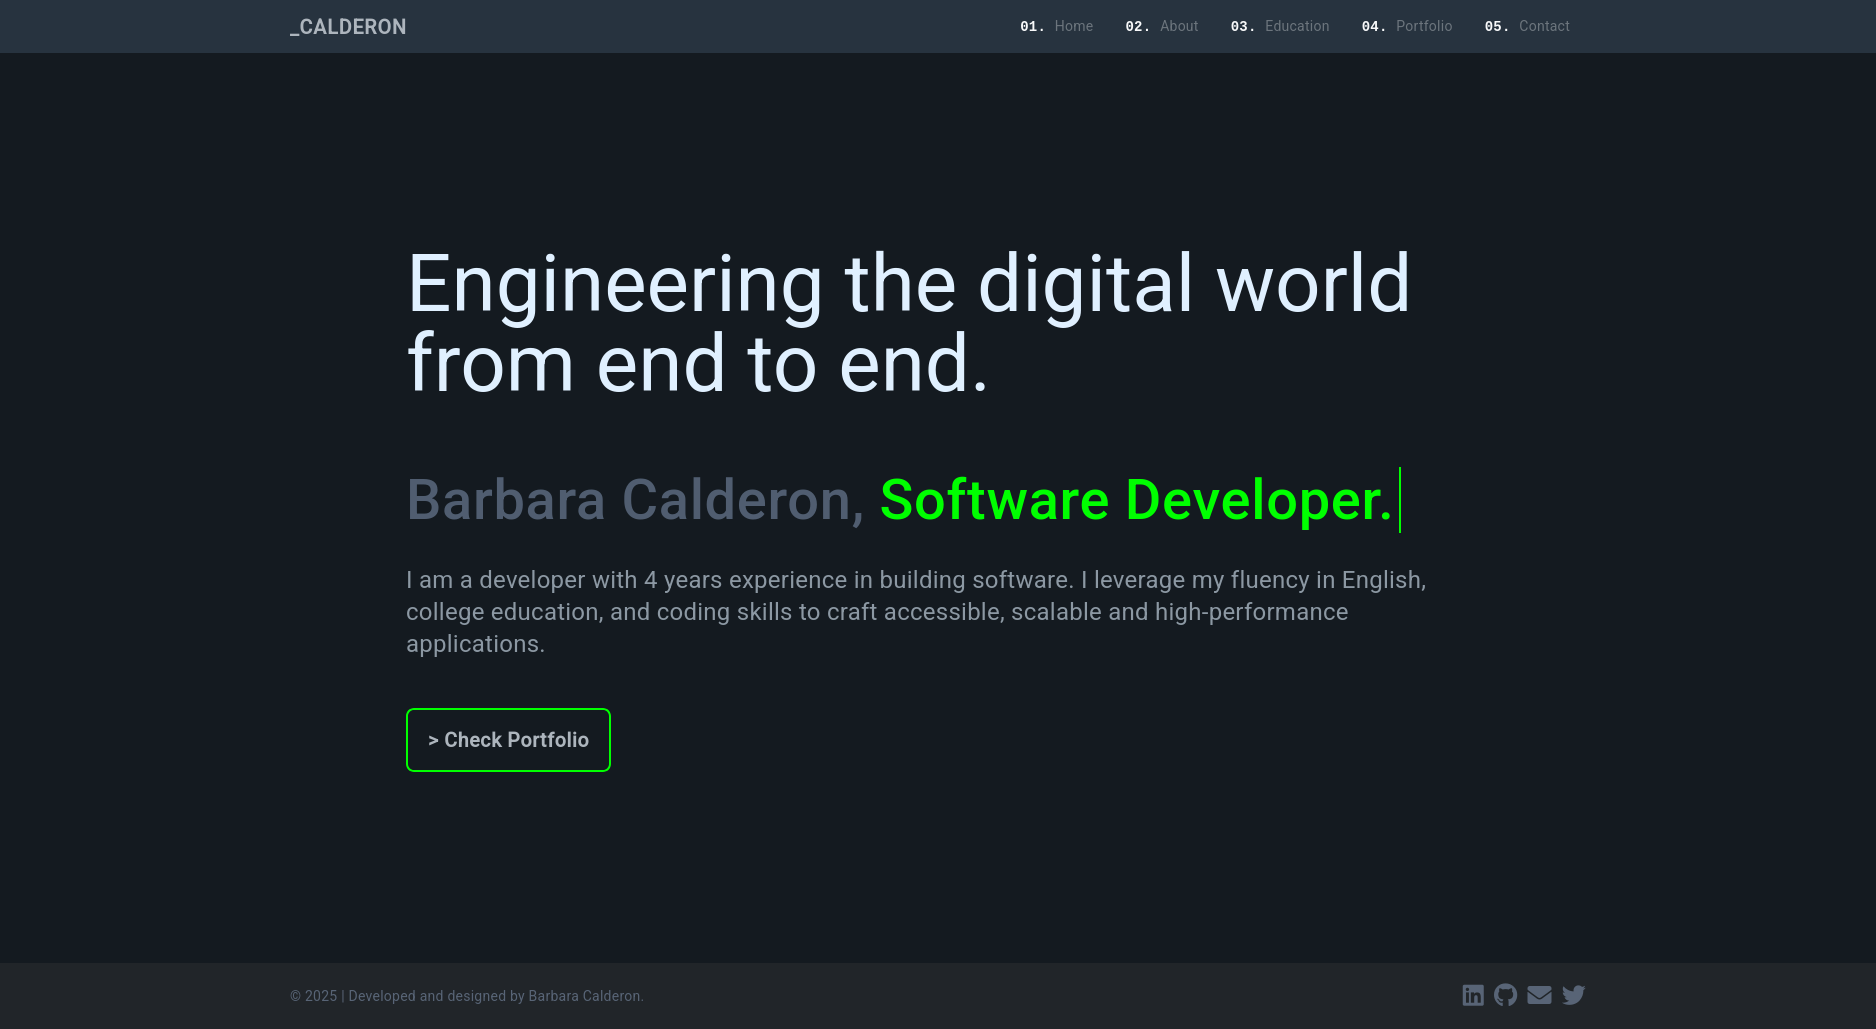
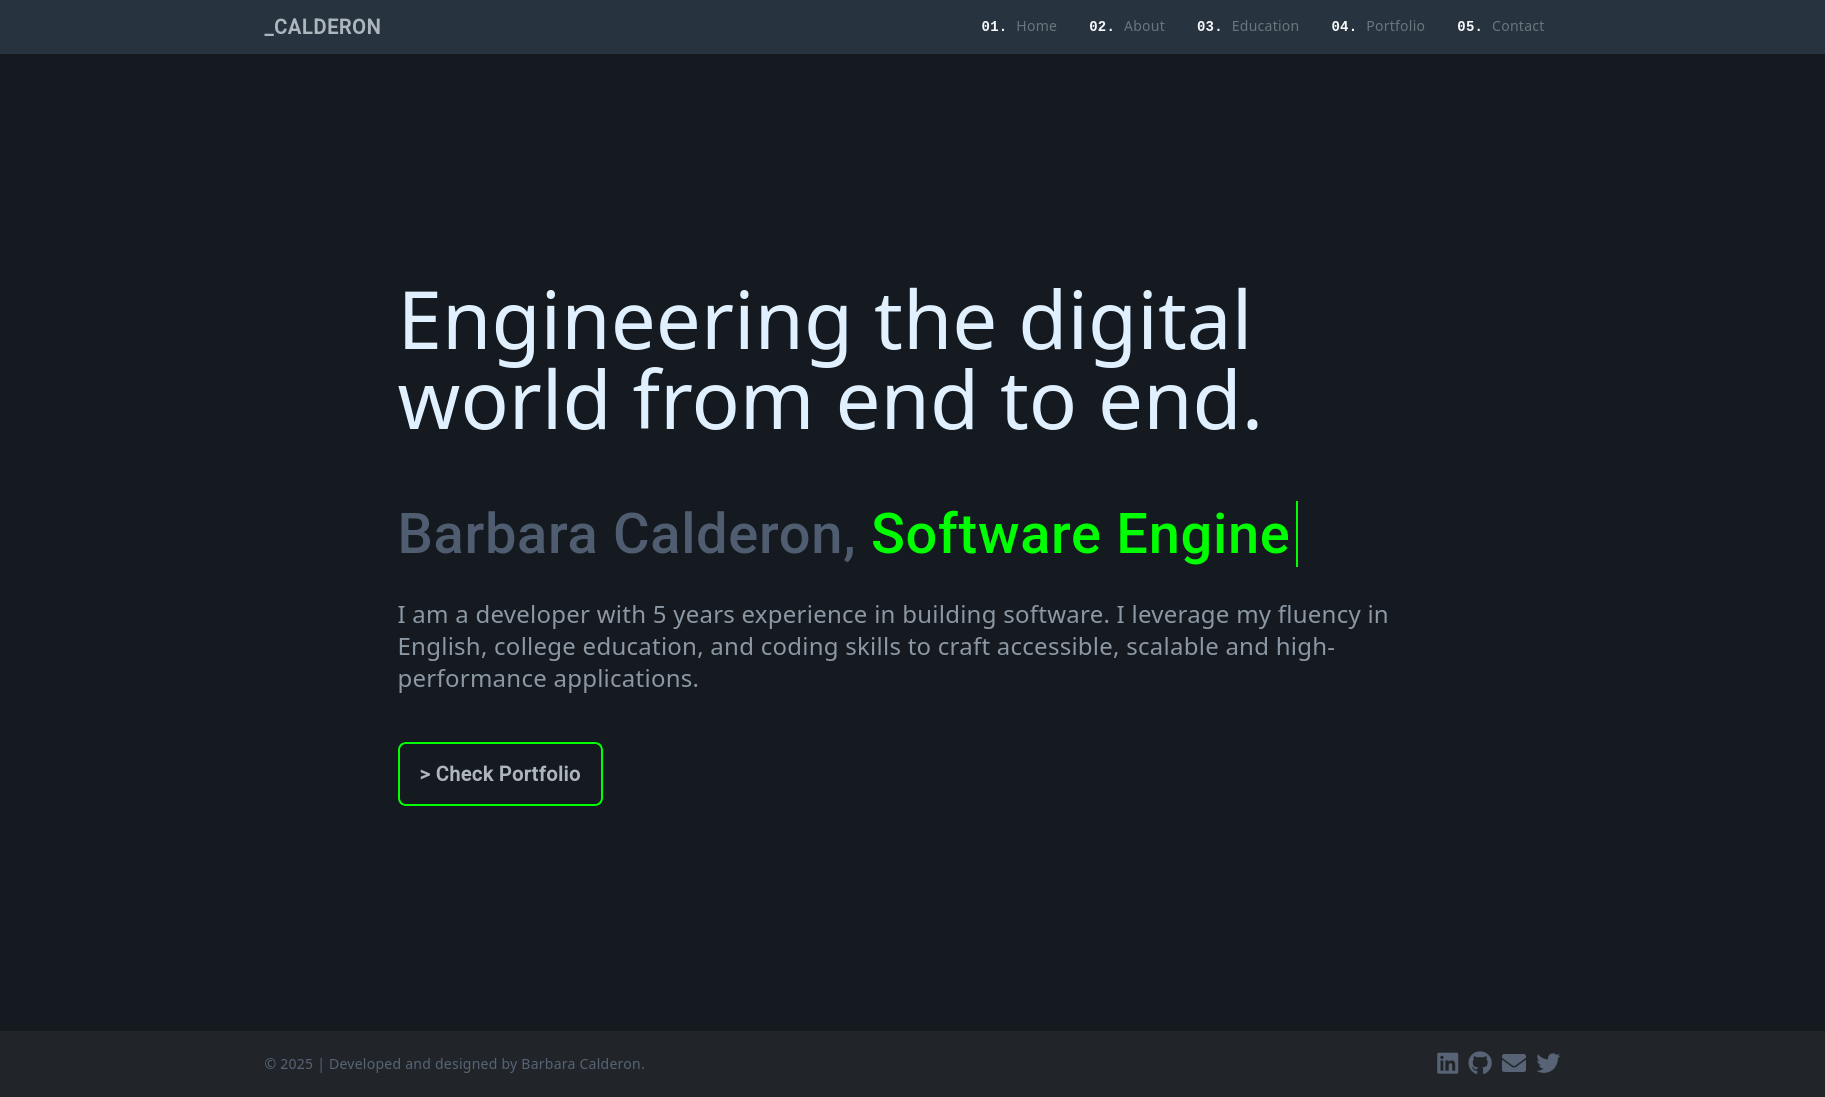
fix: increase

diff --git a/src/app/home/home.component.html b/src/app/home/home.component.html
@@ -4,7 +4,7 @@
         <h1 class="home-title">Engineering the digital world from end to end.</h1>
         <h2 class="home-author">Barbara Calderon, <span id="dynamic-text">{{ dynamicText }}</span></h2>
         <blockquote>
-            I am a developer with 4 years experience in building software. I leverage my fluency in English, college education, and coding skills to craft accessible, scalable and high-performance applications.
+            I am a developer with 5 years experience in building software. I leverage my fluency in English, college education, and coding skills to craft accessible, scalable and high-performance applications.
         </blockquote>
         <button>
             <a routerLink="/portfolio"  class="a-green">
